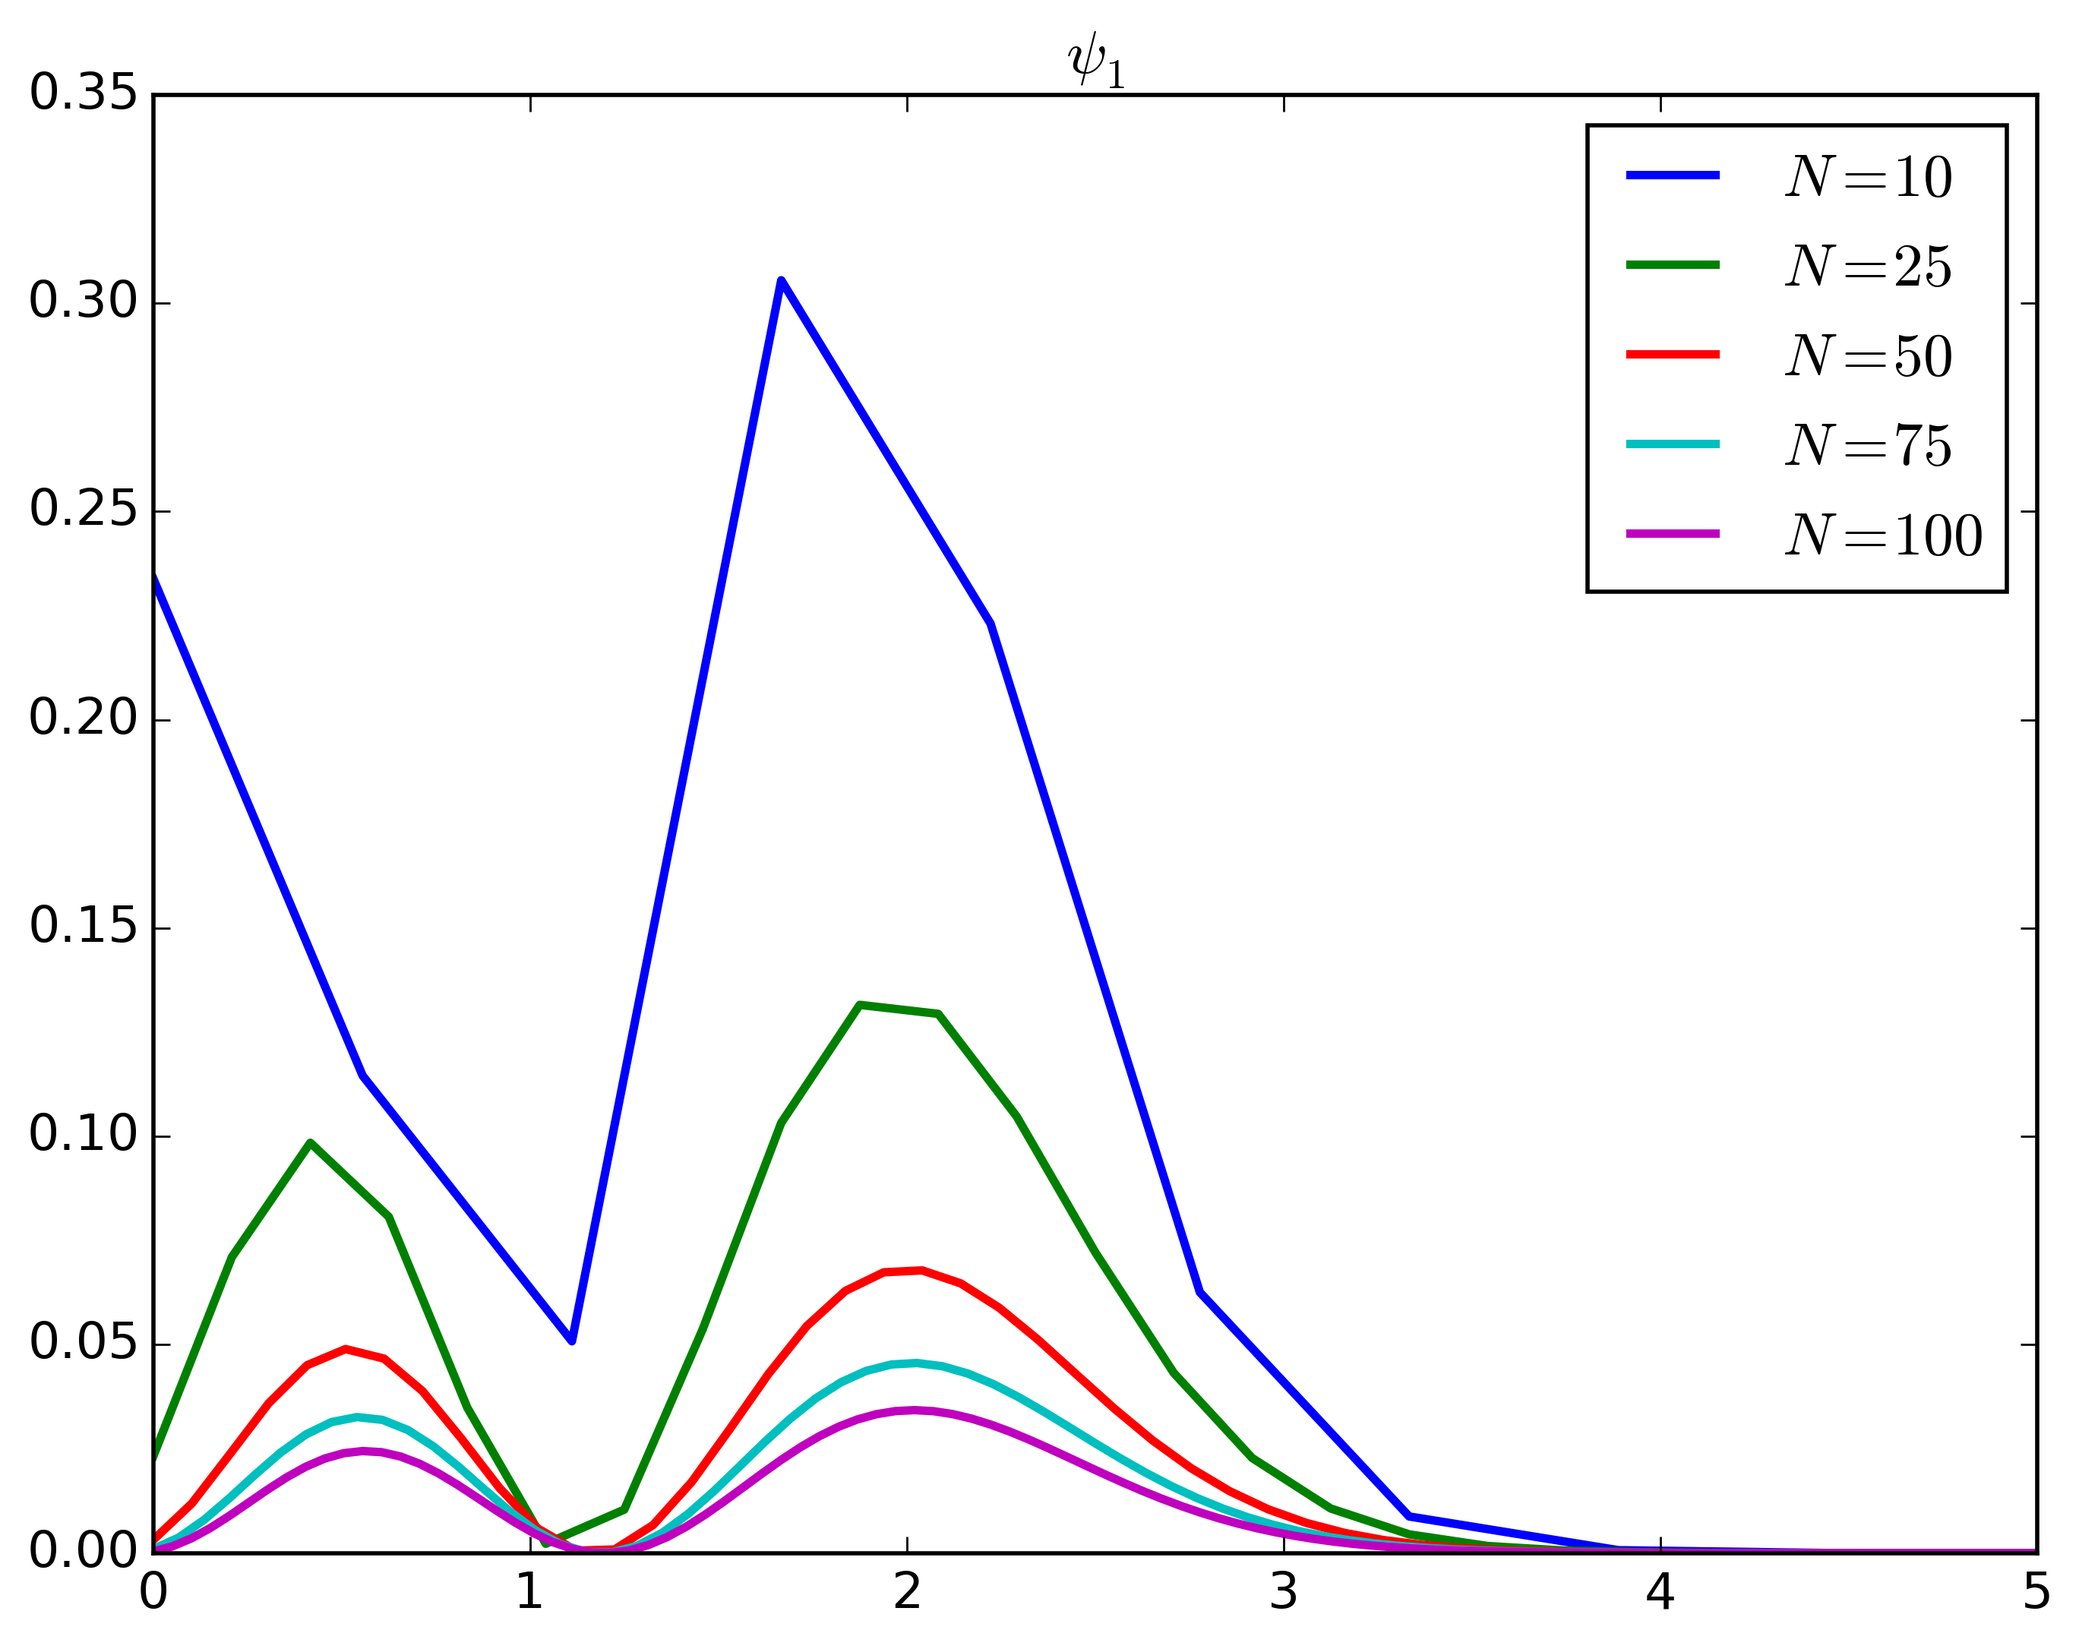
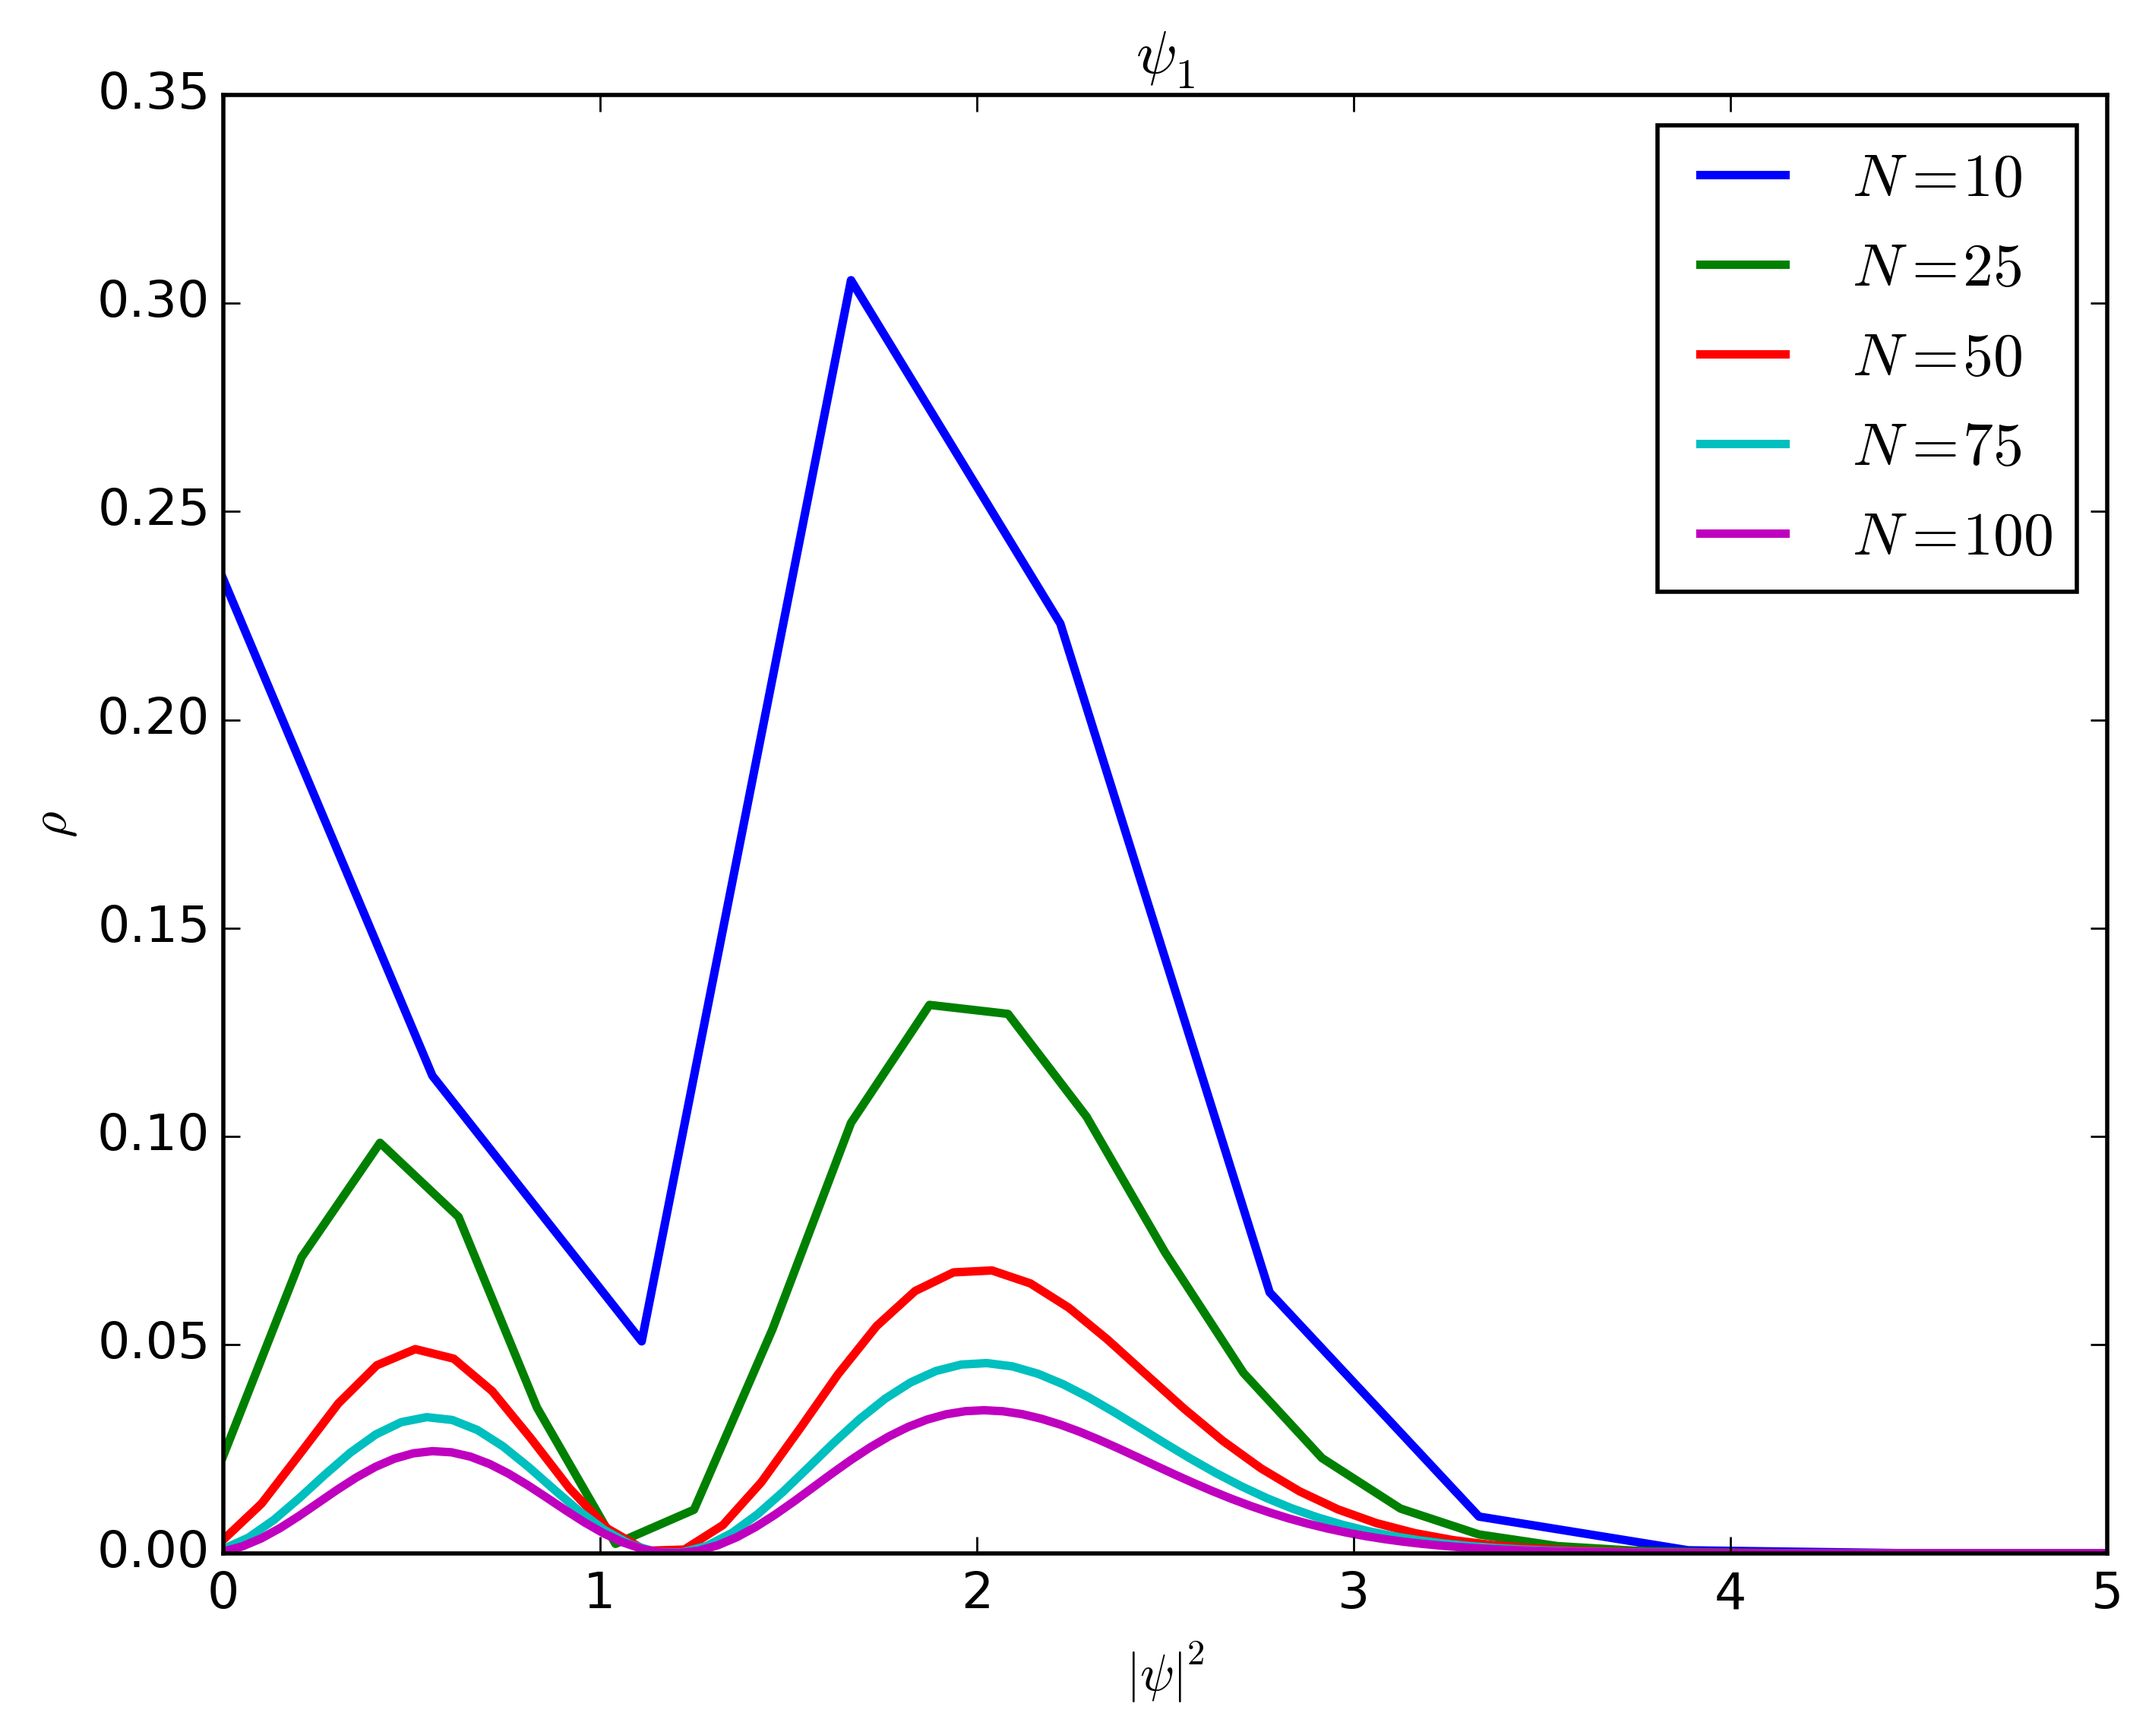
Add figures to /results and report.tex

diff --git a/Project 2/report/report.tex b/Project 2/report/report.tex
@@ -60,7 +60,7 @@ frame=l,
 }
 {\end{tcolorbox}}
 
-\newcommand{\figurewidth}{.9\textwidth}
+\newcommand{\figurewidth}{.85\textwidth}
 
 \title{FYS3150/4150\\Computational Physics\\Project 2}
 \author{Magnus Ulimoen\\Krister Stræte Karlsen}
@@ -420,7 +420,23 @@ explored using the above algorithms. Analytical solutions has been
 found, and it is therefore possible to compare these cases.
 
 \subsubsection{Energies}
-The three lowest energies are analytically known. Comparing gives
+
+The three lowest energies are analytically known. Comparing these values
+with the one numerically computed gives plots \ref{fig:relE0}, 
+\ref{fig:relE1} and \ref{fig:relE2}. If a higher N is chosen, the 
+absolute error tends to decrease.
+
+This is however not the case for all selections 
+of $\rho\infty$. If this limit is chosen too low the energies will 
+not be as accurate, since the wave function can not unfold itself.
+An example of this is for the lowest energy level, figure \ref{fig:relE0},
+where the error for $\rho_\infty = 2$ does not tend to zero.
+
+For larger energies this lower limit must be selected larger, as the 
+wave function tends outwards. For the third lowest eigenvalue, 
+\ref{fig:relE2} one must choose a higher $\rho_\infty$ to compensate 
+for this.
+
 
 \begin{figure}
 \centering
@@ -446,14 +462,82 @@ and $\rho_\infty$}
 \label{fig:relE2}
 \end{figure}
 
-\subsection{Reproduction of results}
+\subsubsection{Wave function}
 
+The wave function is found by squaring the eigenvectors found for the 
+Hamiltonian. The three lowest wave functions have been selected and
+plotted for different values of $\rho_\infty$,
+\ref{fig:psi0rho}, \ref{fig:psi1rho}, \ref{fig:psi2rho} and 
+different values of N, \ref{fig:psi0N}, \ref{fig:psi1N} and 
+\ref{fig:psi2N}.
+
+When N is increased the solutions tends to decrease and get smoother.
+This decrease is due to a better approximation of the integral for 
+larger N.
+
+The different values of $\rho_\infty$ gives different eigenvectors.
+If it is chosen to low, the wave function will have a cutoff, and some 
+of the true behaviour may be lost.
+
+
+\begin{figure}
+\centering
+\includegraphics[width=\figurewidth]{../results/psi_inf_compare_psi0.png}
+\caption{Wave function for different values of $\rho_\infty$ for
+the eigenvector associated with the lowest energy}
+\label{fig:psi0rho}
+\end{figure}
+
+\begin{figure}
+\centering
+\includegraphics[width=\figurewidth]{../results/psi_inf_compare_psi1.png}
+\caption{Wave function for different values of $\rho_\infty$ for
+the eigenvector associated with the second lowest energy}
+\label{fig:psi1rho}
+\end{figure}
+
+\begin{figure}
+\centering
+\includegraphics[width=\figurewidth]{../results/psi_inf_compare_psi2.png}
+\caption{Wave function for different values of $\rho_\infty$ for
+the eigenvector associated with the third lowest energy}
+\label{fig:psi2rho}
+\end{figure}
+
+\begin{figure}
+\centering
+\includegraphics[width=\figurewidth]{../results/N_compare_psi0.png}
+\caption{Wave function for different values of $N$ for
+the eigenvector associated with the lowest energy}
+\label{fig:psi0N}
+\end{figure}
+
+\begin{figure}
+\centering
+\includegraphics[width=\figurewidth]{../results/N_compare_psi1.png}
+\caption{Wave function for different values of $N$ for
+the eigenvector associated with the second lowest energy}
+\label{fig:psi1N}
+\end{figure}
+
+\begin{figure}
+\centering
+\includegraphics[width=\figurewidth]{../results/N_compare_psi2.png}
+\caption{Wave function for different values of $N$ for
+the eigenvector associated with the third lowest energy}
+\label{fig:psi2N}
+\end{figure}
 
 \subsection{Two electrons}
 
 For a selection of $\omega_r$ with $N = 100$ and $\rho_\infty = 6$ we
-obtain plot \ref{fig:omegar0}, \ref{fig:omegar1} and \ref{fig:omegar2}
-for the three lowest eigenvalues.
+obtain the plots \ref{fig:omegar0}, \ref{fig:omegar1} and 
+\ref{fig:omegar2} for the three lowest eigenvalues. The 
+
+\subsection{Reproduction of results}
+
+
+
 
 
 \begin{figure}

diff --git a/Project 2/analyze/compare_psi.py b/Project 2/analyze/compare_psi.py
@@ -51,6 +51,8 @@ def plot_psi_N(Ns):
   for i in range(3):
     ax[i].set_title('$\psi_{}$'.format(i))
     ax[i].legend(loc='upper right')
+    ax[i].set_xlabel(r'$|\psi|^2$')
+    ax[i].set_ylabel(r'$\rho$')
     savename = os.path.join(target_folder, 'N_compare_psi{}.png'.format(i))
     fig[i].savefig(savename, dpi = 400,
                    bbox_inches='tight')
@@ -72,6 +74,8 @@ def plot_psi_rho(rhos):
   for i in range(3):
     ax[i].set_title('$\psi_{}$'.format(i))
     ax[i].legend(loc='upper right')
+    ax[i].set_xlabel(r'$|\psi|^2$')
+    ax[i].set_ylabel(r'$\rho$')
     ax[i].set_xlim((0,max(rhos)))
     savename = os.path.join(target_folder, 
                             'psi_inf_compare_psi{}.png'.format(i))
@@ -80,10 +84,10 @@ def plot_psi_rho(rhos):
   
   
 Ns = [10, 25, 50, 75, 100]
-#plot_psi_N(Ns)
+plot_psi_N(Ns)
 
 rhos = [2, 3, 4, 5, 6]
-#plot_psi_rho(rhos)
+plot_psi_rho(rhos)
 
 
 
